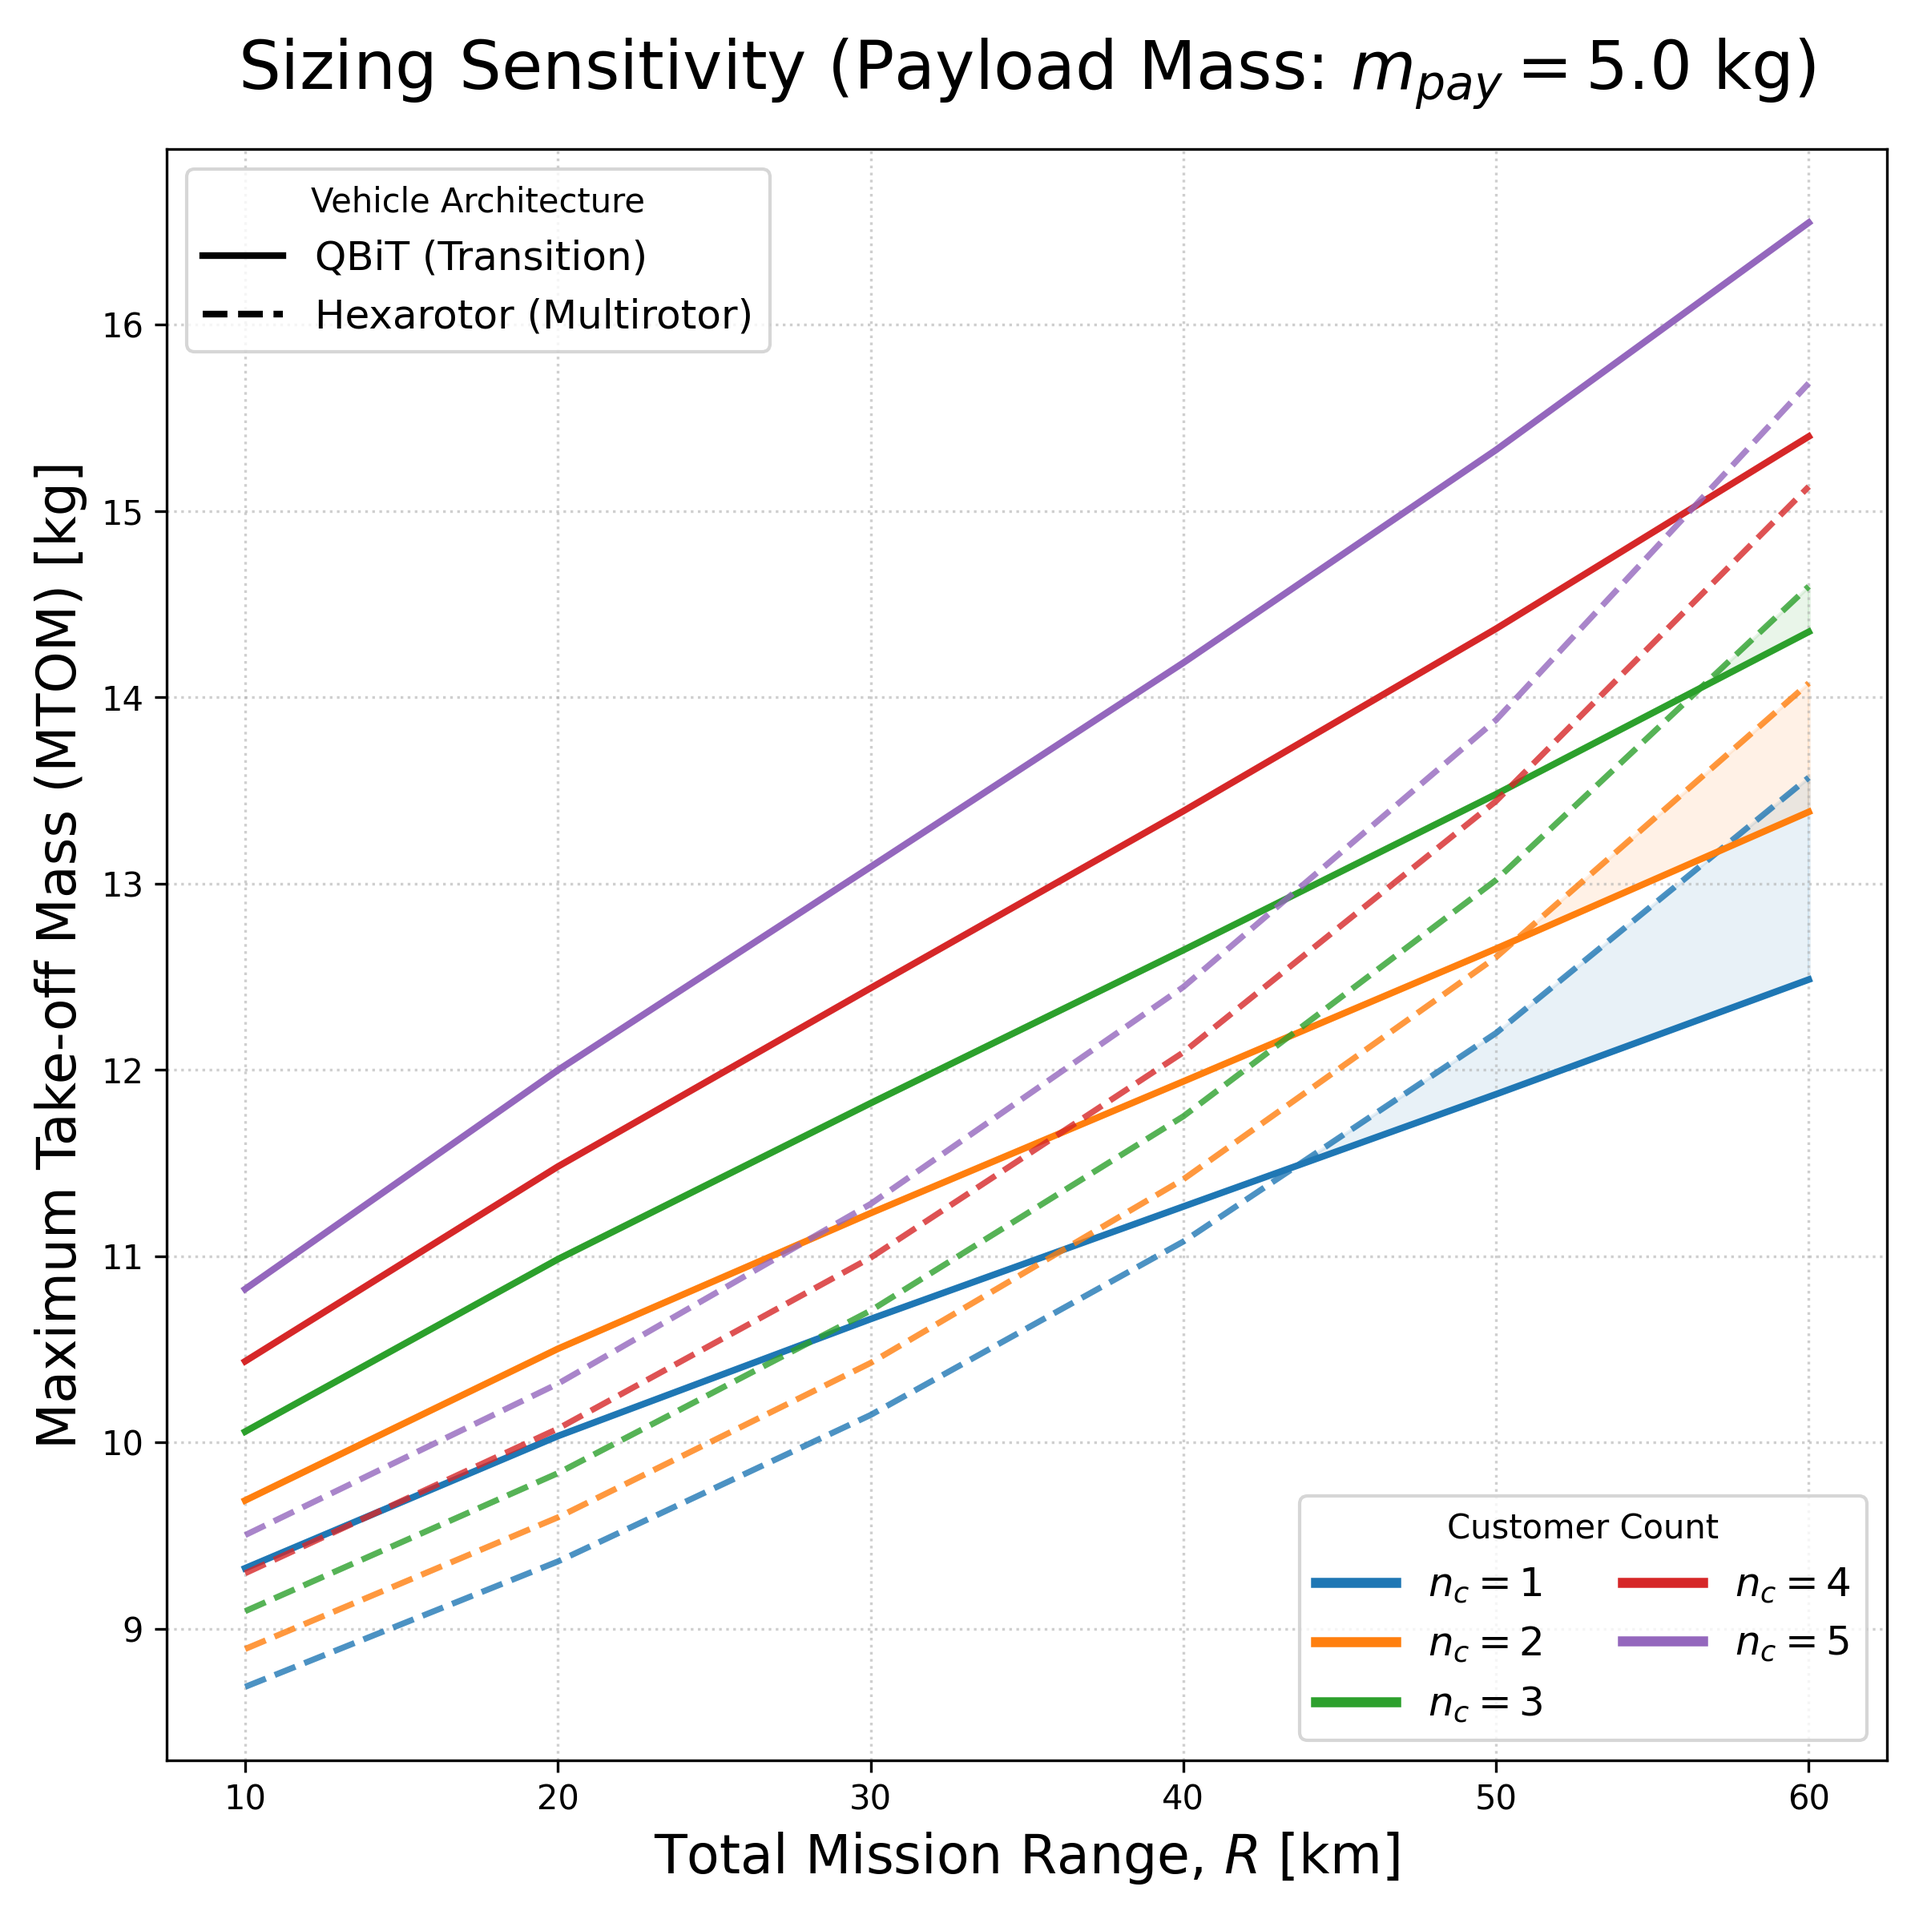
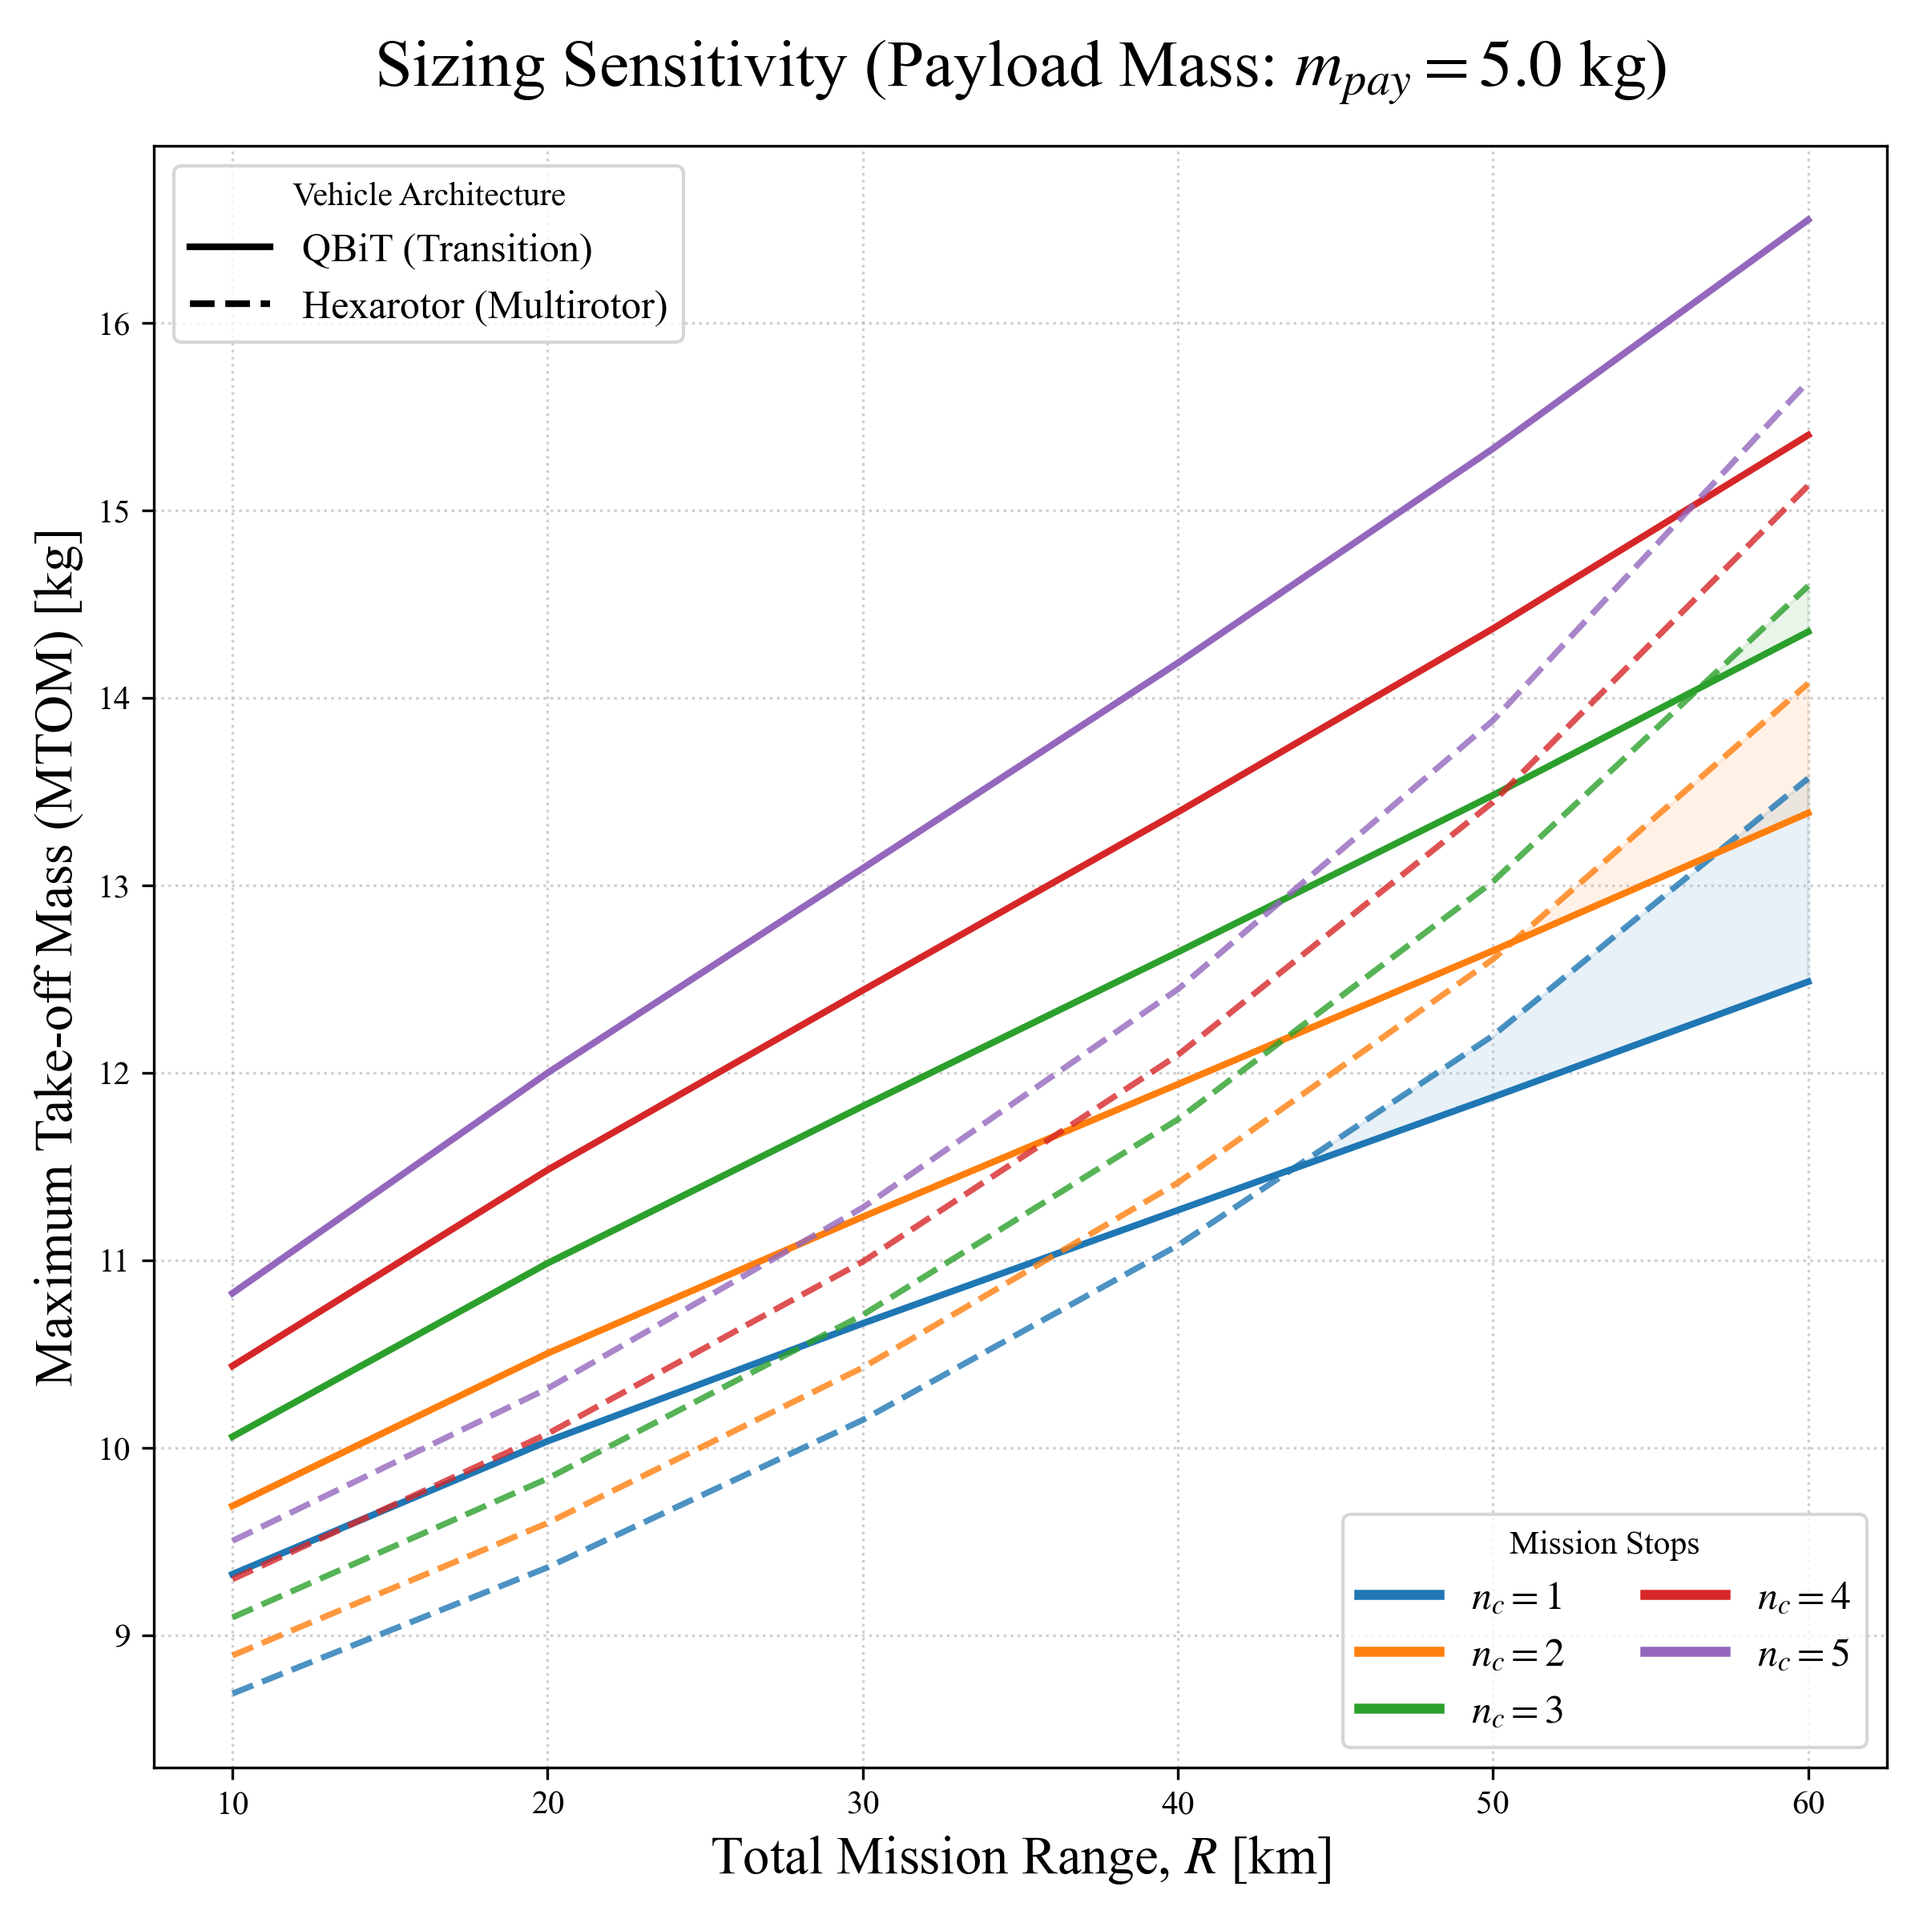
updated README and UAV visualization

diff --git a/sizing_openmdao/sensitivity_analysis/sa_mtom_range_nc.py b/sizing_openmdao/sensitivity_analysis/sa_mtom_range_nc.py
@@ -7,7 +7,11 @@ import sys
 import matplotlib.pyplot as plt
 import numpy as np
 import openmdao.api as om
+from matplotlib import rcParams
 from matplotlib.lines import Line2D
+
+rcParams['font.family'] = 'Times New Roman'
+rcParams['mathtext.fontset'] = 'stix'
 
 parent_dir = os.path.abspath(os.path.join(os.path.dirname(__file__), '..'))
 sys.path.append(parent_dir)
@@ -112,7 +116,7 @@ def run_parameter_sweep():
         Line2D([0], [0], color=colors[i], lw=3, label=f'$n_c = {n_c}$')
         for i, n_c in enumerate(n_c_values)
     ]
-    ax.legend(handles=count_legend, loc='lower right', fontsize=12, ncol=2, frameon=True, title='Customer Count')
+    ax.legend(handles=count_legend, loc='lower right', fontsize=12, ncol=2, frameon=True, title='Mission Stops')
 
     fig.tight_layout()
     output_path = os.path.join(results_dir, 'mtom_sensitivity_payload_5kg.png')

diff --git a/README.md b/README.md
@@ -68,13 +68,13 @@ pdftoppm -png -r 200 -singlefile xdsm/hexarotor_xdsm.pdf xdsm/hexarotor_xdsm
 
 ## Sensitivity analysis
 
-The 5 kg payload sweep compares MTOM across total mission ranges from 10 to 60 km and one to five customers. Solid lines show QBiT and dashed lines show the hexarotor; the lower line is the lighter, favorable architecture.
+The 5 kg payload sweep compares MTOM across total mission ranges from 10 to 60 km and one to five mission stops. Solid lines show QBiT and dashed lines show the hexarotor; the lower line is the lighter, favorable architecture.
 
 <p align="center">
-	<img src="sizing_openmdao/sensitivity_analysis/results/mtom_sensitivity_payload_5kg.png" alt="MTOM sensitivity for a 5 kg payload" width="700">
+	<img src="sizing_openmdao/sensitivity_analysis/results/mtom_sensitivity_payload_5kg.png" alt="MTOM sensitivity for a 5 kg payload" width="600">
 </p>
 
-For one, two, and three customers, the QBiT becomes lighter at total ranges of about 44 km, 51 km, and 57 km, respectively. For four and five customers, the hexarotor remains lighter throughout the plotted range.
+For one, two, and three mission stops, the QBiT becomes lighter at total ranges of about 44 km, 51 km, and 57 km, respectively. For four and five mission stops, the hexarotor remains lighter throughout the plotted range.
 
 ## Repository structure
 
@@ -84,7 +84,7 @@ sizing_openmdao/
 	run_hexarotor.py            # Hexarotor optimization runner
 	qbit/                       # QBiT constants, components, groups, and model
 	hexarotor/                  # Hexarotor constants, components, groups, and model
-	sensitivity_analysis/       # Range and customer-count sensitivity studies
+	sensitivity_analysis/       # Range and mission-stop sensitivity studies
 xdsm/                         # XDSM generator and rendered diagrams
 requirements.txt              # Python dependencies
 ```
